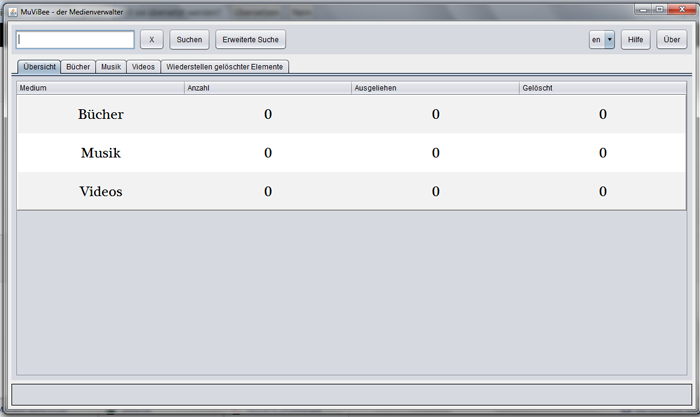
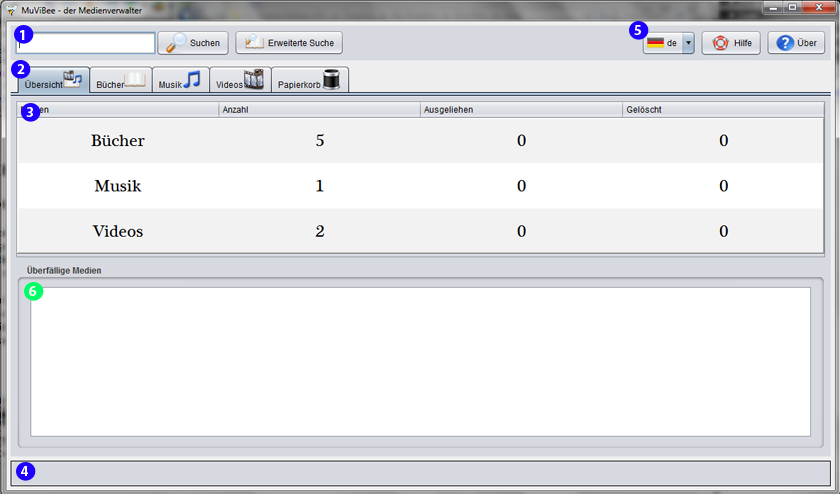
neue hilfeeee.

diff --git a/src/muvibee/gui/resources/help/help_de.html b/src/muvibee/gui/resources/help/help_de.html
@@ -1,0 +1,93 @@
+<!DOCTYPE HTML PUBLIC "-//W3C//DTD HTML 4.01 Transitional//EN"
+"http://www.w3.org/TR/html4/loose.dtd">
+<html>
+<head>
+<title>MuViBee Handbuch</title>
+<meta http-equiv="Content-Type" content="text/html; charset=iso-8859-1">
+</head>
+
+<body>
+<a name="top"></a><h1>
+Handbuch zur Verwendung von MuViBee</h1>
+<h2><img src="screenshot.png" width="700" height="417" border="0" usemap="#Map">
+  <map name="Map">
+    <area shape="rect" coords="15,26,288,53" href="#search">
+    <area shape="rect" coords="532,27,690,52" href="#optional">
+    <area shape="rect" coords="15,59,292,78" href="#tabs">
+    <area shape="rect" coords="19,79,691,378" href="#main">
+    <area shape="rect" coords="12,384,695,405" href="#status">
+  </map>
+</h2>
+<h2>1. Vorwort</h2>
+<p>Der Name MuViBee stammt aus der umgangssprachlichen Abk&uuml;rzung von <strong>Music Video Bibliothek</strong>. Das flei&szlig;ige Bienchen einem beim Finden von B&uuml;chern, Musik und Videos.</p>
+	 <p>Ziel der Software ist es, jeder Altersklasse eine einfache und intuitive Medienverwaltung zu erm&ouml;glichen, ohne gro&szlig;e PC Kenntnisse vorauszusetzen.</p>
+	 <p>&nbsp;</p>
+	 <h2>
+     2. Programm&uuml;bersicht</h2>
+	 <h3 align="left">Die Benutzerobefl&auml;che ist in f&uuml;nf Bereiche gegliedert.</h3>
+	 <ol>
+       <li><a href="#search">das Suchfeld</a></li>
+       <li><a href="#tabs">die Kategorie Tabs</a></li>
+       <li><a href="#main">das Hauptfenster </a></li>
+       <li><a href="#status">die Statusleite</a></li>
+       <li><a href="#optional">zus&auml;tzliche Optionen </a></li>
+</ol>
+	 <h3>&nbsp;</h3>
+	 <h3><a name="search"></a>2.1. das Suchfeld</h3>
+	 <p>Geben Sie einfach einen Begriff im Suchfeld ein und klicken Sie anschlie&szlig;end auf &quot;Suchen&quot;. Das <em>flei&szlig;ige Bienchen</em> wird Ihnen umgehend alle Ergebnisse im <a href="#main">Hauptfenster</a> anzeigen. Sollte Ihre Suche ohne Ergebnis oder nicht passend genug ausfallen, klicken Sie mit der linken Maustaste auf das Feld &quot;<a href="#advanced_search">Erweiterte Suche</a>&quot;.<a href="#top">[zur&uuml;ck zum Seitenanfang</a>] </p>
+	 <p>&nbsp;</p>
+	 <h3><a name="tabs" id="tabs"></a>2.2. die Kategorie Tabs</h3>
+	 <p><img src="tabs.png" width="354" height="34"><br>
+Um die Software stets &uuml;bersichtlich zu halten, ist das <a href="#main">Hauptfenster</a> in verschiedene Tabs / Reiter gegliedert, wie man es auch von Karteikarten kennt. Im Papierkorb haben Sie die M&ouml;glichkeit ausversehen gel&ouml;schte Elemente <a href="#restore">wiederherzustellen</a>. <a href="#top">[zur&uuml;ck zum Seitenanfang</a>] </p>
+	 <p>&nbsp;</p>
+	 <h3><a name="main" id="main"></a>2.3. das Hauptfenster</h3>
+	 <p>Bei der Verwendung von MuViBee arbeiten Sie haupts&auml;chlich im Hauptfenster. Hier erhalten Sie auf der Startseite eine &Uuml;bersicht all Ihrer Medien und eine &Uuml;bersicht &uuml;berf&auml;lliger Medien (siehe mehr dazu unter <a href="#lend">Verleihfunktion</a>). <br>
+  Nach Auswahl eines <a href="#tabs">Tabs</a>, erhlten Sie immer im oberen die M&ouml;glichkeit nach verschiedenen Eigenschaften zu sortieren. <br>
+Im unteren Bereich finden Sie den Button &quot;Hinzuf&uuml;gen&quot;. Je nachdem in welchem Tab Sie sich nun befinden, k&ouml;nnen Sie ein neues Medium hinzuf&uuml;gen. Nach dem Klick auf &quot;Hinzuf&uuml;gen&quot; k&ouml;nnen Sie nun ausw&auml;hlen, ob Sie das Medium mit Hilfe der <a href="#EAN">EAN / ISBN</a> anlegen wollen oder <a href="#inster_manuell">manuell</a>. Bei der Verwendung von<a href="#EAN"> EAN / ISBN</a>, ben&ouml;tigen Sie jedoch eine aktive Internetverbindung. <a href="#top">[zur&uuml;ck zum Seitenanfang</a>] </p>
+	 <p>&nbsp;</p>
+	 <h3><a name="status" id="status"></a>2.4. die Statusleiste</h3>
+	 <p>In der Statusleiste erhalten Sie stest alle Meldungen, wie "erfolgreich gespeichert", oder eine Fehlermeldung. <a href="#top">[zur&uuml;ck zum Seitenanfang</a>] </p>
+	 <p>&nbsp;</p>
+	 <h3><a name="optional" id="optional"></a>2.5. zus&auml;tzliche Optionen </h3>
+	 <p>Hier k&ouml;nnen Sie zum Einen die Sprache Ihrer Benutzeroberfl&auml;che &auml;ndern, diese Hilfe aufrufen oder Informationen zum aktuellen Softwarestand abrufen. <a href="#top">[zur&uuml;ck zum Seitenanfang</a>] </p>
+	 <p>&nbsp;</p>
+	 <p align="left">&nbsp;</p>
+	 <h2 align="left">3. Funktionen</h2>
+	 <ol>
+	   <li>Medium anlegen
+	     <ol>
+	       <li><a href="#EAN">per ISBN / EAN</a></li>
+           <li><a href="#inster_manuell">manuell</a> </li>
+	     </ol>
+	   </li>
+       <li><a href="#advanced_search">Erweiterte Suche</a></li>
+       <li><a href="#restore">Wiederherstellen gel&ouml;schter Elemente</a></li>
+       <li><a href="#lend">Verleihfunktion</a></li>
+</ol>
+	 <h3>&nbsp;</h3>
+	 <h3>3.1 Medium anlegen </h3>
+	 <h3><a name="EAN"></a>3.1.1. per EAN / ISBN anlegen </h3>
+	 <p>In sofern Sie &uuml;ber eine aktive Internetverbindung verf&uuml;gen, k&ouml;nnen Sie mit Hilfe der auf B&uuml;chern befindlichen ISBN Nummer, bzw. der auf allen Medien befindlichen EAN Nummer, bequem per Internet alle Informationen zu Ihrem Medium anlegen. Das flei&szlig;ige Bienchen f&uuml;gt Ihnen dann alle Informationen zum Produkt hinzu. Anschlie&szlig;end k&ouml;nnen Sie einzelne Angaben bearbeiten. Sie sparen sich dadurch aber das manuelle Anlegen und viel Zeit.  <a href="#top">[zur&uuml;ck zum Seitenanfang</a>] </p>
+	 <h3><a name="inster_manuell"></a>3.1.2.  manuell</h3>
+	 <p>Sollte das automatische Anlegen fehlschlagen oder nicht m&ouml;glich sein, haben Sie weiterhin die M&ouml;glichkeit Ihr Medium manuell anzulegen. Nach der Auswahl &quot;manuell&quot; &ouml;ffnet sich im rechten Bereich des Hauptfensters ein Formular um Ihr Medium von Hand anzulegen.  <a href="#top">[zur&uuml;ck zum Seitenanfang</a>] </p>
+	 <p>&nbsp;</p>
+	 <h3><a name="advanced_search"></a><img src="advanced_search.png" width="350" height="211" align="right">3.2. die erweiterte Suche </h3>
+	 <p>Mit Hilfe der erweiterten Suche ist es m&ouml;glich, gezielt nach einzelnen Eigenschaften zu suchen. Beispielsweise nur Videos, Musik oder B&uuml;cher.<br>
+	   Dar&uuml;ber hinaus verf&uuml;gt die erweiterte Suche &uuml;ber eine so genannte Volltextsuche. Das bedeutet, dass Sie nie den vollst&auml;ndigen Titel eingeben m&uuml;ssen. Angenommen Sie haben die Filme &quot;
+
+ 
+       P.S. Ich liebe Dich  &quot; und &quot;
+
+ 
+       Liebe braucht keine Ferien&quot; in Ihrem Datenbestand. Wenn Sie nun im Titel einfach &quot;Liebe&quot; eingeben, da Ihnen der vollst&auml;ndige Name nicht mehr bekannt ist, werden Ihnen nun diese beiden Filme als Ergebenis angezeigt.  <a href="#top">[zur&uuml;ck zum Seitenanfang</a>] </p>
+	 <p>&nbsp;</p>
+	 <h3><a name="restore"></a>3.3. Wiederherstellen gel&ouml;schter Elemente </h3>
+	 <p>Im Papierkorb k&ouml;nnen Sie zuvor gel&ouml;schte Medien wiederherstellen oder vollst&auml;ndig l&ouml;schen.  <a href="#top">[zur&uuml;ck zum Seitenanfang</a>] </p>
+	 <p>&nbsp;</p>
+	 <h3><img src="lend.png" width="394" height="138" align="right"><a name="lend">
+	 </a>4.4 Verleihfunktion</h3>
+	 <p>Mit Hifle der Verleihfunktion behalten Sie stets ein &Uuml;bersicht &uuml;ber die Medien, die Sie Ihren Freunden und Bekannten ausgeliehen haben. Somit vergessen Sie nie ein Buch zur&uuml;ckzufordern. Auf der &Uuml;bersichtsseite k&ouml;nnen Sie jederzeit sehen, wieviele B&uuml;cher / Videos / CDs Sie aktuelle verliehen haben. Dar&uuml;ber hinaus k&ouml;nnen Sie ein Enddatum setzen. Das <em>flei&szlig;ige Bienchen</em> erinnert Sie dann automatisch, das Buch zur&uuml;ckzufordern. &Uuml;berf&auml;llige Medien werden Ihnen in der &Uuml;bericht angezeigt<img src="6.png" width="27" height="23">.  <a href="#top">[zur&uuml;ck zum Seitenanfang</a>] </p>
+	 <p align="left">&nbsp;</p>
+<p align="left">&nbsp;</p>
+</body>
+</html>

diff --git a/src/muvibee/gui/resources/help/help_en.htm b/src/muvibee/gui/resources/help/help_en.htm
@@ -1,0 +1,91 @@
+<!DOCTYPE HTML PUBLIC "-//W3C//DTD HTML 4.01 Transitional//EN"
+"http://www.w3.org/TR/html4/loose.dtd">
+<html>
+<head>
+<title>MuViBee Handbuch</title>
+<meta http-equiv="Content-Type" content="text/html; charset=iso-8859-1">
+</head>
+
+<body>
+<a name="top"></a>
+<h1>MuViBee Guide </h1>
+<h2><img src="screenshot.png" width="700" height="417" border="0" usemap="#Map">
+  <map name="Map">
+    <area shape="rect" coords="15,26,288,53" href="#search">
+    <area shape="rect" coords="532,27,690,52" href="#optional">
+    <area shape="rect" coords="15,59,292,78" href="#tabs">
+    <area shape="rect" coords="19,79,691,378" href="#main">
+    <area shape="rect" coords="12,384,695,405" href="#status">
+  </map>
+</h2>
+<h2>1. Foreword</h2>
+<p> The name MuViBee comes from the  colloquial abbreviation for Music Video Library. The hard-working bee helps you finding your books, music and video. <br>
+  <br>
+The aim of the software is to enable all persons in simple and intuitive media management, with little computer skills. </p>
+	 <p>&nbsp;</p>
+	 <h2>
+     2. Overview</h2>
+	 <h3 align="left"> The surface is divided into five sections. </h3>
+	 <ol>
+       <li><a href="#search">the search box</a></li>
+       <li><a href="#tabs">the Tabs</a></li>
+       <li><a href="#main">the main window</a></li>
+       <li><a href="#status">the status bar</a></li>
+       <li><a href="#optional">more options</a></li>
+</ol>
+	 <h3>&nbsp;</h3>
+	 <h3><a name="search"></a>2.1. the search box </h3>
+	 <p> Simply enter a keyword in the search box and then click the Button &quot;Search&quot;. The hard-working bee will give you instant results in the <a href="#main">main window</a>. 
+
+
+ If your search results will fail or will not fit enough for you, you can click onto &quot;<a href="#advanced_search">Advanced Search</a>&quot;.<a href="#top">[back to top</a>] </p>
+	 <p>&nbsp;</p>
+	 <h3><a name="tabs" id="tabs"></a>2.2. the tabs</h3>
+	 <p><img src="tabs.png" width="354" height="34"><br>
+ To keep the software open, the <a href="#main">main window</a> is devided in different tabs, as known from index cards. In the trash you can <a href="#restore">restore</a> accidentally deleted items. <a href="#top">[</a><a href="#top">back to top</a>]</p>
+	 <p>&nbsp;</p>
+	 <h3><a name="main" id="main"></a>2.3. the main window </h3>
+	 <p> When using MuViBee you work primarily in the main window. Here you get an overview  of all your media and  overdue media (see more at <a href="#lend">rental function</a>). <br>
+After selecting a <a href="#tabs">tab</a>, you will always find the possibility to sort for different properties. <br>
+In the lower section you will find the button "Add". Depending on which tab you are now, you can add a new medium. After clicking the Add button, you can  choose whether you want to create the medium with the <a href="#EAN">EAN / ISBN</a> or <a href="#inster_manuell">manually</a>. The use of <a href="#EAN">EAN / ISBN</a>, you will need an active Internet connection. <a href="#top">[</a><a href="#top">back to top</a>] </p>
+	 <p>&nbsp;</p>
+	 <h3><a name="status" id="status"></a>2.4. die status bar </h3>
+	 <p> In the status bar, you will receive all messages, such as "successfully saved", or an error message. <a href="#top">[back to top</a>] </p>
+	 <p>&nbsp;</p>
+	 <h3><a name="optional" id="optional"></a>2.5. more options</h3>
+	 <p> Here you can change the language  of your user interface, open this help dialog or retrieve information about the current software version. <a href="#top">[back to top</a>] </p>
+	 <p>&nbsp;</p>
+	 <p align="left">&nbsp;</p>
+	 <h2 align="left">3. Functions </h2>
+	 <ol>
+	   <li>Insert media
+	     <ol>
+	       <li><a href="#EAN">ISBN / EAN</a></li>
+           <li><a href="#inster_manuell">manuell</a> </li>
+	     </ol>
+	   </li>
+       <li><a href="#advanced_search">Advanced Search</a></li>
+       <li><a href="#restore">restore accidentally deleted items</a></li>
+       <li><a href="#lend">rental function</a></li>
+</ol>
+	 <h3>&nbsp;</h3>
+	 <h3>3.1 Insert media</h3>
+	 <h3><a name="EAN"></a>3.1.1. EAN / ISBN</h3>
+	 <p> Unless you have an active Internet connection, you can use the ISBN number located on books, or create the media with theEAN number. The hard-working bee will add all the information to this product. After taht you can edit individual data. This will avoid the manual creation and a lot of time. <a href="#top">[back to top</a>] </p>
+	 <h3><a name="inster_manuell"></a>3.1.2.  manuell</h3>
+	 <p> If the automatic creation will fail you have still the opportunity to create the media manually. After selecting "manually" it opens at the right side of the main window a form to get the media inserted. <a href="#top">[back to top</a>] </p>
+	 <p>&nbsp;</p>
+	 <h3><a name="advanced_search"></a><img src="advanced_search.png" width="350" height="211" align="right">3.2. the advanced search </h3>
+	 <p> Using the advanced search, it is possible to search for individual properties. For example, only videos, music or books. <br>
+In addition, the advanced search is based on a so-called full-text search. This means that you never have to type the full title. Suppose the movies &quot;PS I love you" and "Love does not need vacation" in your database and you enter simply "love", both movies will appear. <a href="#top">[back to top</a>] </p>
+	 <p>&nbsp;</p>
+	 <h3><a name="restore"></a>3.3. Restore accidentally deleted items</h3>
+	 <p> In the trash you can recover deleted media or completely remove from your database.  <a href="#top">[back to top</a>] </p>
+	 <p>&nbsp;</p>
+	 <h3><img src="lend.png" width="394" height="138" align="right"><a name="lend">
+	 </a>4.4 Rental function</h3>
+	 <p> With the distribution function you can always keep an overview of the media you have lent to friends and acquaintances. So you never forget recover a book. On the summary page, you can always see how many books / Videos / CDs have been rent at present. You can also set an end date. The hard-working bee will remind you automatically to recover the book. Overdue media is displayed on the overview<img src="6.png" width="27" height="23">. <a href="#top">back to top</a>] </p>
+	 <p align="left">&nbsp;</p>
+<p align="left">&nbsp;</p>
+</body>
+</html>

diff --git a/src/muvibee/gui/HelpDialog.java b/src/muvibee/gui/HelpDialog.java
@@ -9,6 +9,7 @@ import java.awt.*;
 import java.awt.event.ActionEvent;
 import java.awt.event.ActionListener;
 import java.io.*;
+import java.util.Locale;
 import java.util.ResourceBundle;
 import muvibee.MuViBee;
 
@@ -45,7 +46,10 @@ public class HelpDialog extends JDialog {
         });
 
         try {
-            ep.setPage(getClass().getResource("resources/help/help.html"));
+            if(Locale.getDefault() == Locale.GERMAN)
+                ep.setPage(getClass().getResource("resources/help/help_de.html"));
+            else
+                ep.setPage(getClass().getResource("resources/help/help_de.html"));
         } catch (IOException e) {
             e.printStackTrace();
         }
